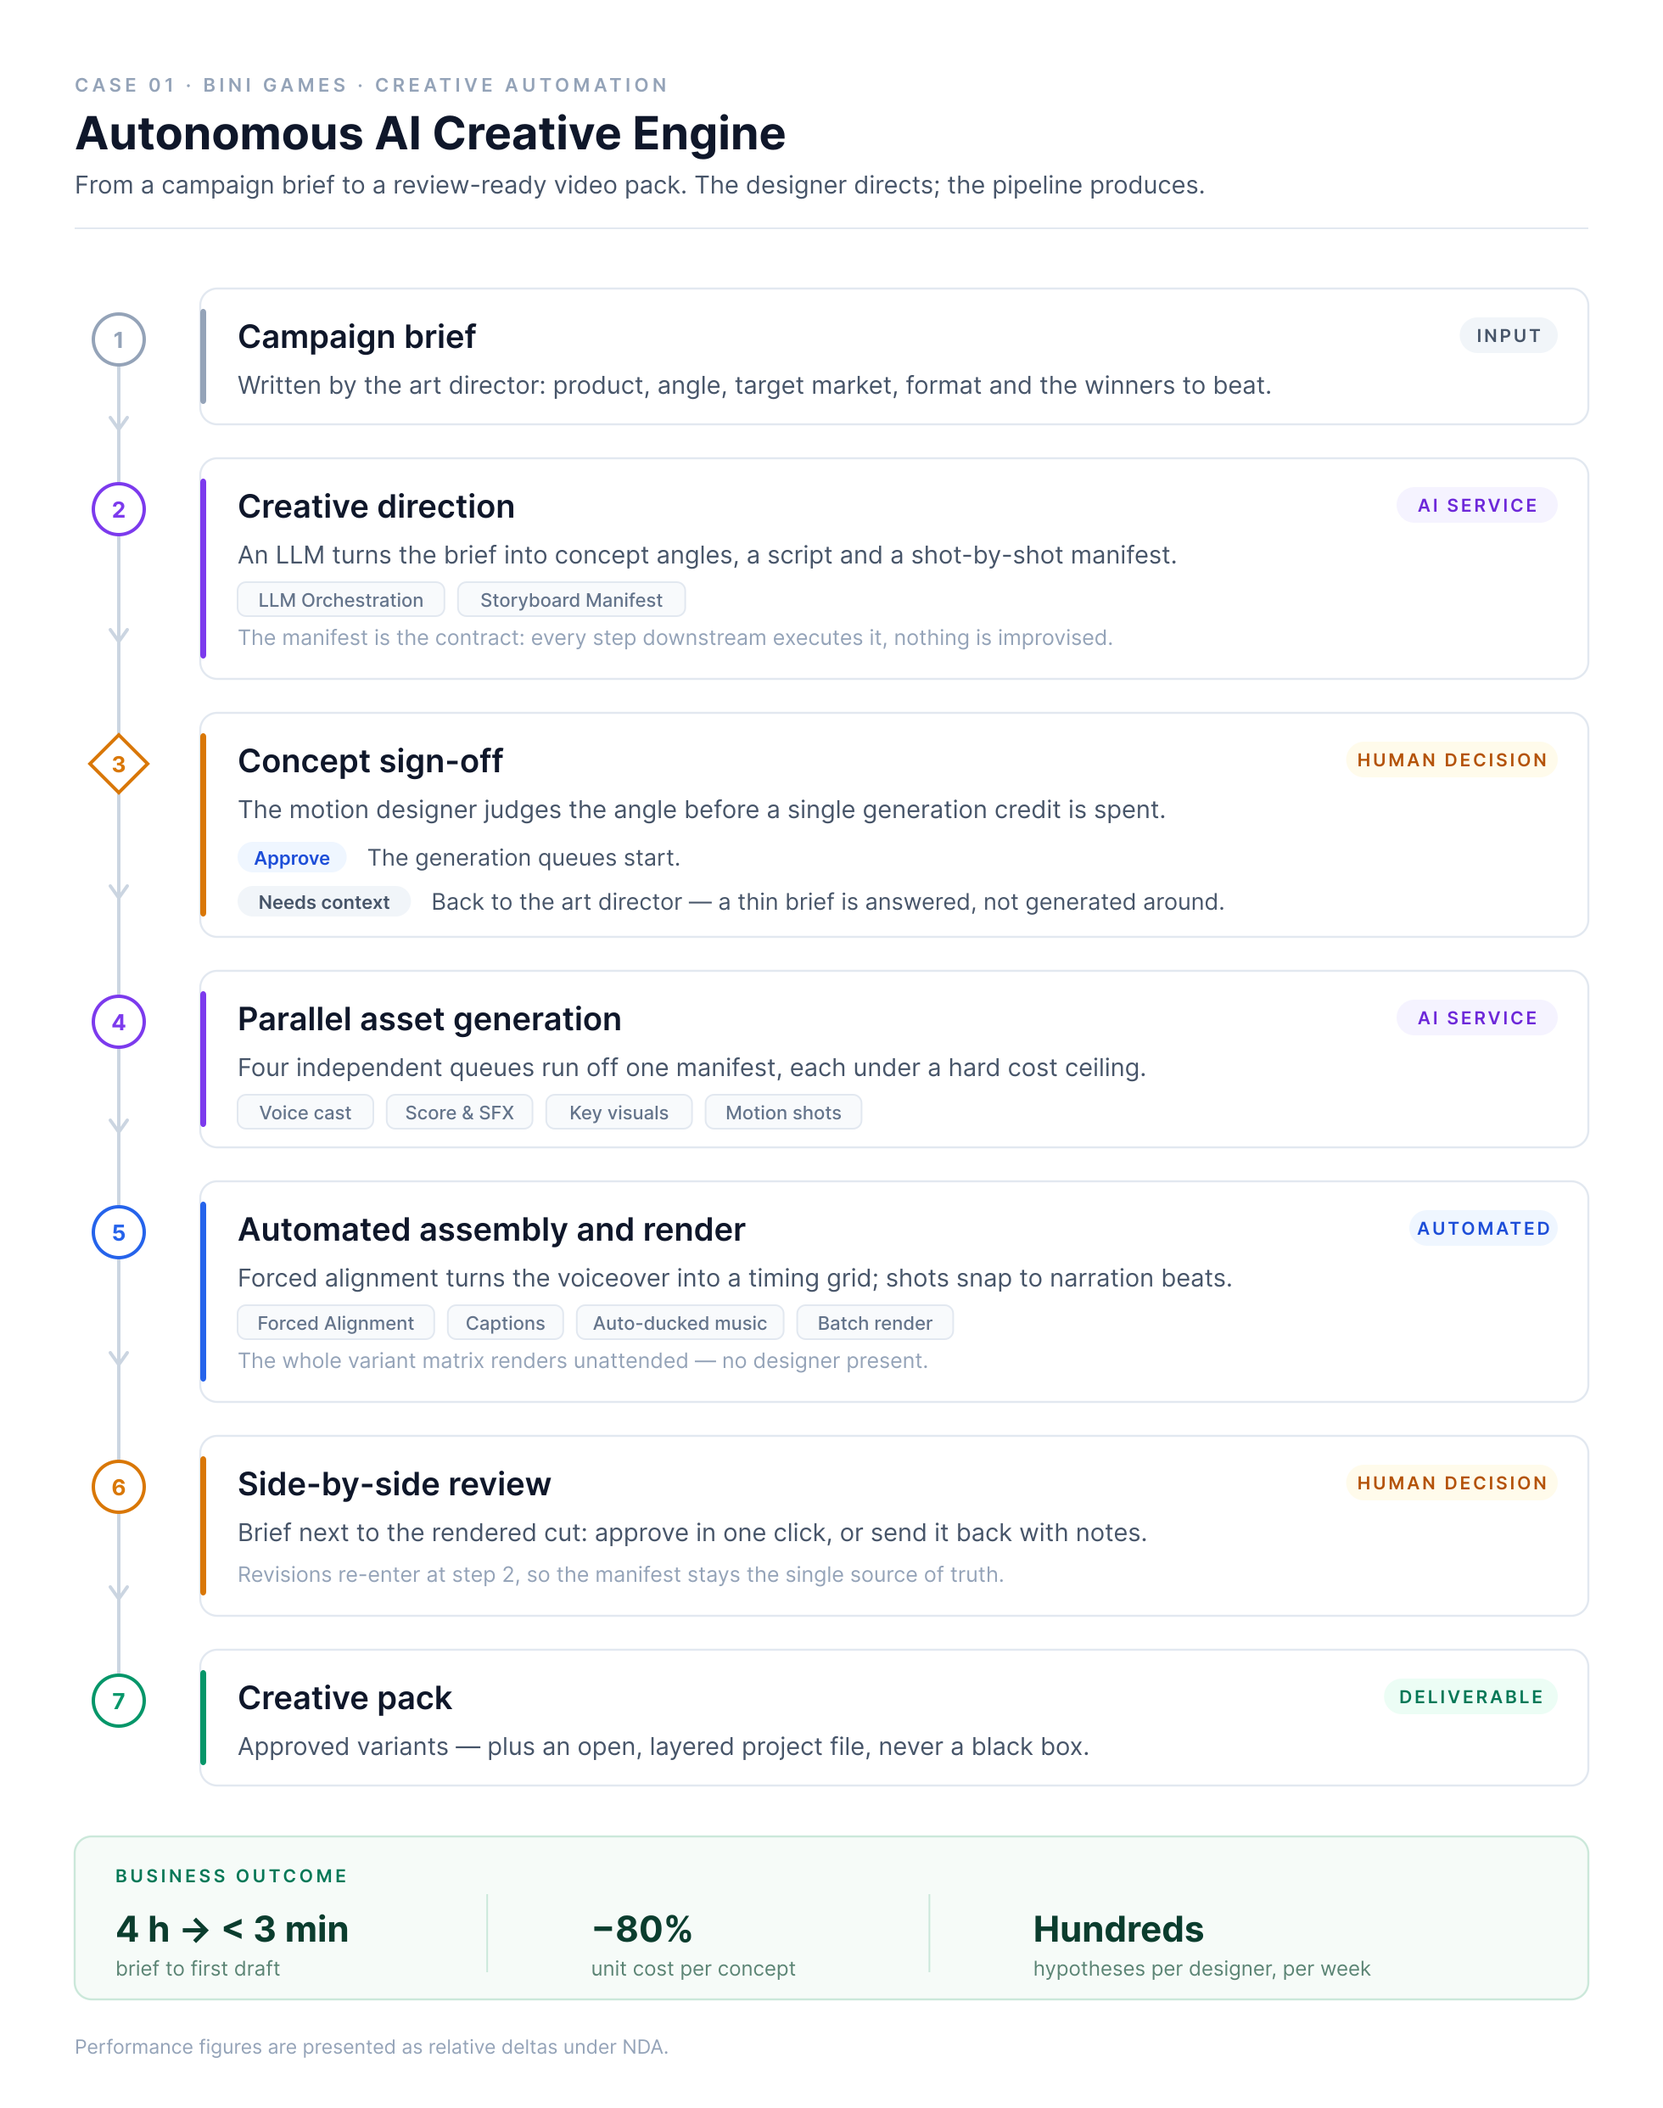
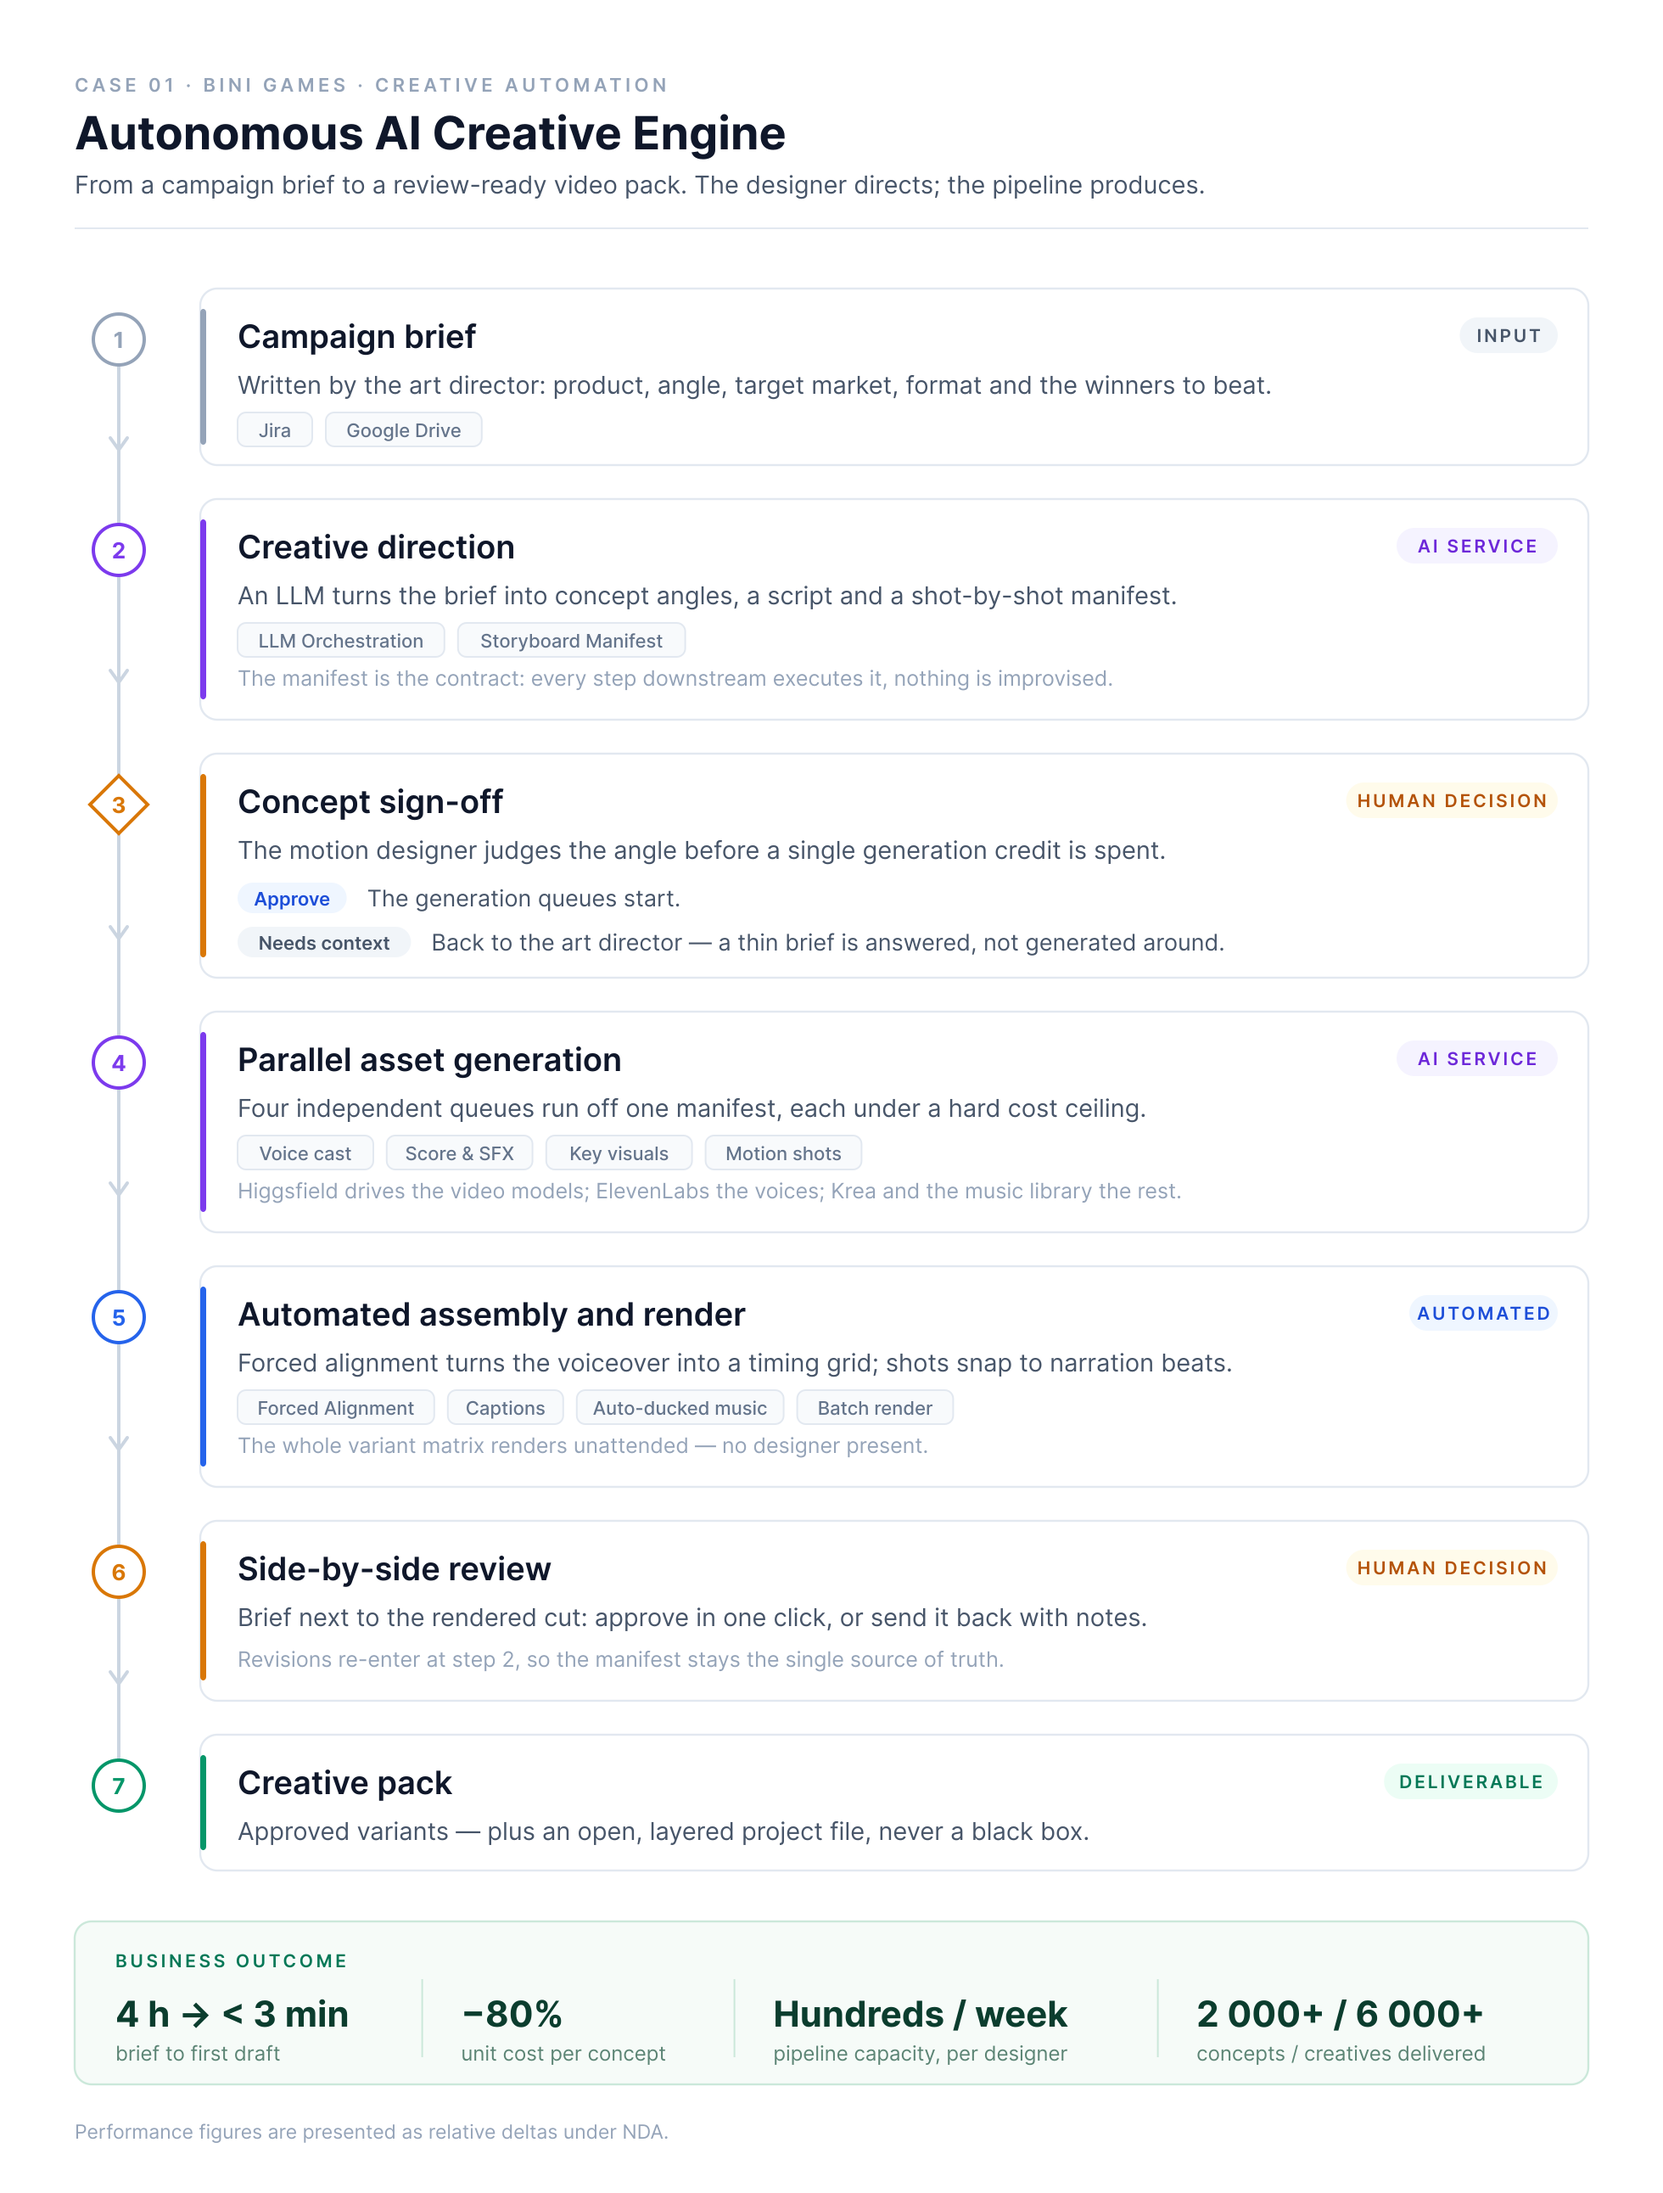
Case 1: separate pipeline capacity from volume actually delivered, and name the tools the CV names

diff --git a/case1_autonomous_pipeline.py b/case1_autonomous_pipeline.py
@@ -10,7 +10,7 @@ f = Flow("CASE 01 · BINI GAMES · CREATIVE AUTOMATION",
 
 f.step(1, "Campaign brief",
        "Written by the art director: product, angle, target market, format and the winners to beat.",
-       role="input")
+       role="input", chips=["Jira", "Google Drive"])
 
 f.step(2, "Creative direction",
        "An LLM turns the brief into concept angles, a script and a shot-by-shot manifest.",
@@ -27,7 +27,8 @@ f.step(3, "Concept sign-off",
 
 f.step(4, "Parallel asset generation",
        "Four independent queues run off one manifest, each under a hard cost ceiling.",
-       role="ai", chips=["Voice cast", "Score & SFX", "Key visuals", "Motion shots"])
+       role="ai", chips=["Voice cast", "Score & SFX", "Key visuals", "Motion shots"],
+       note="Higgsfield drives the video models; ElevenLabs the voices; Krea and the music library the rest.")
 
 f.step(5, "Automated assembly and render",
        "Forced alignment turns the voiceover into a timing grid; shots snap to narration beats.",
@@ -45,7 +46,8 @@ f.step(7, "Creative pack",
 f.outcome([
     ("4 h → < 3 min", "brief to first draft"),
     ("−80%", "unit cost per concept"),
-    ("Hundreds", "hypotheses per designer, per week"),
+    ("Hundreds / week", "pipeline capacity, per designer"),
+    ("2 000+ / 6 000+", "concepts / creatives delivered"),
 ])
 f.footnote("Performance figures are presented as relative deltas under NDA.")
 
